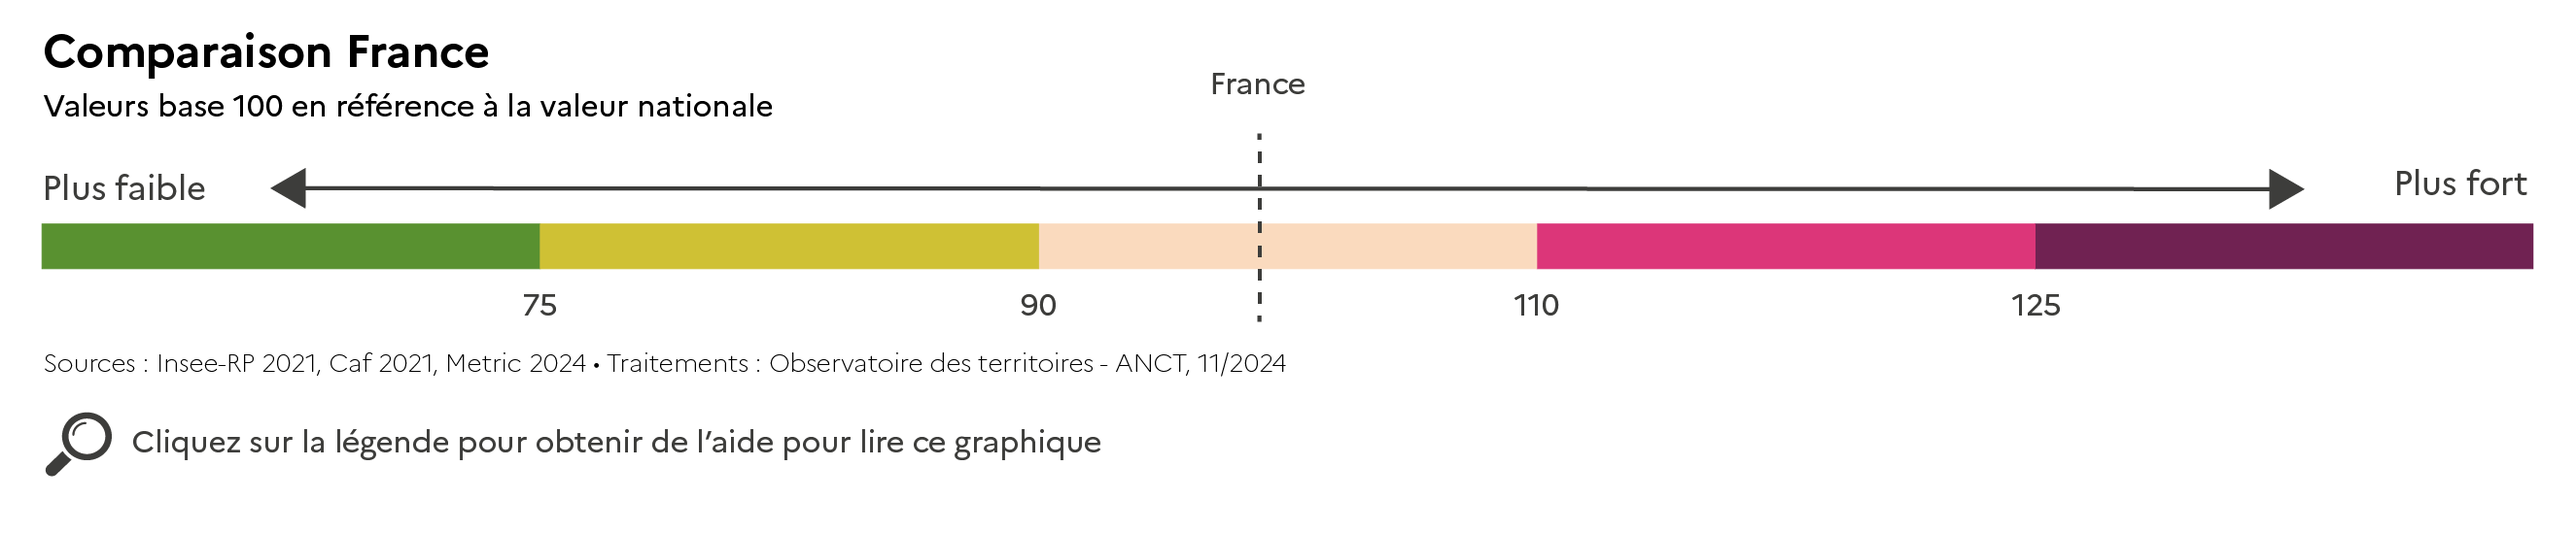
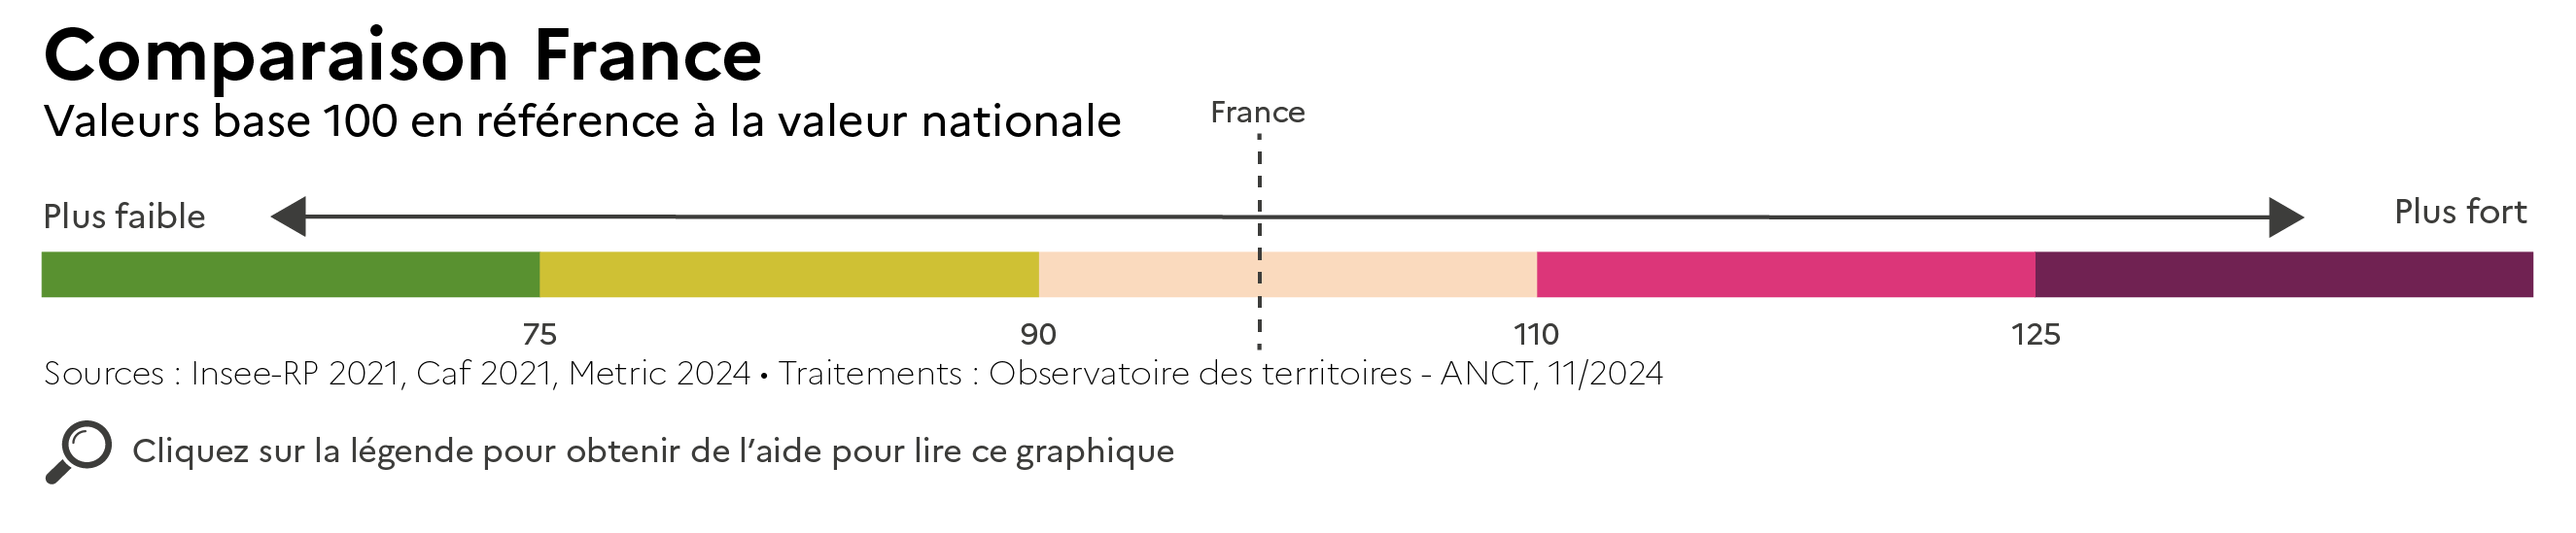
changement legendes

diff --git a/app.css b/app.css
@@ -362,11 +362,11 @@ div.tooltip{
 }
 
 .btn#help-btn-1, .btn#help-btn-2{
-	background-color : #f8f9f9 !important;
+	background-color : white !important;
 }
 
 .btn.help-btn-1:hover, .btn.help-btn-2:hover{
-	background-color : #f8f9f9 !important;
+	background-color : white !important;
 }
 
 /* *********************** */
